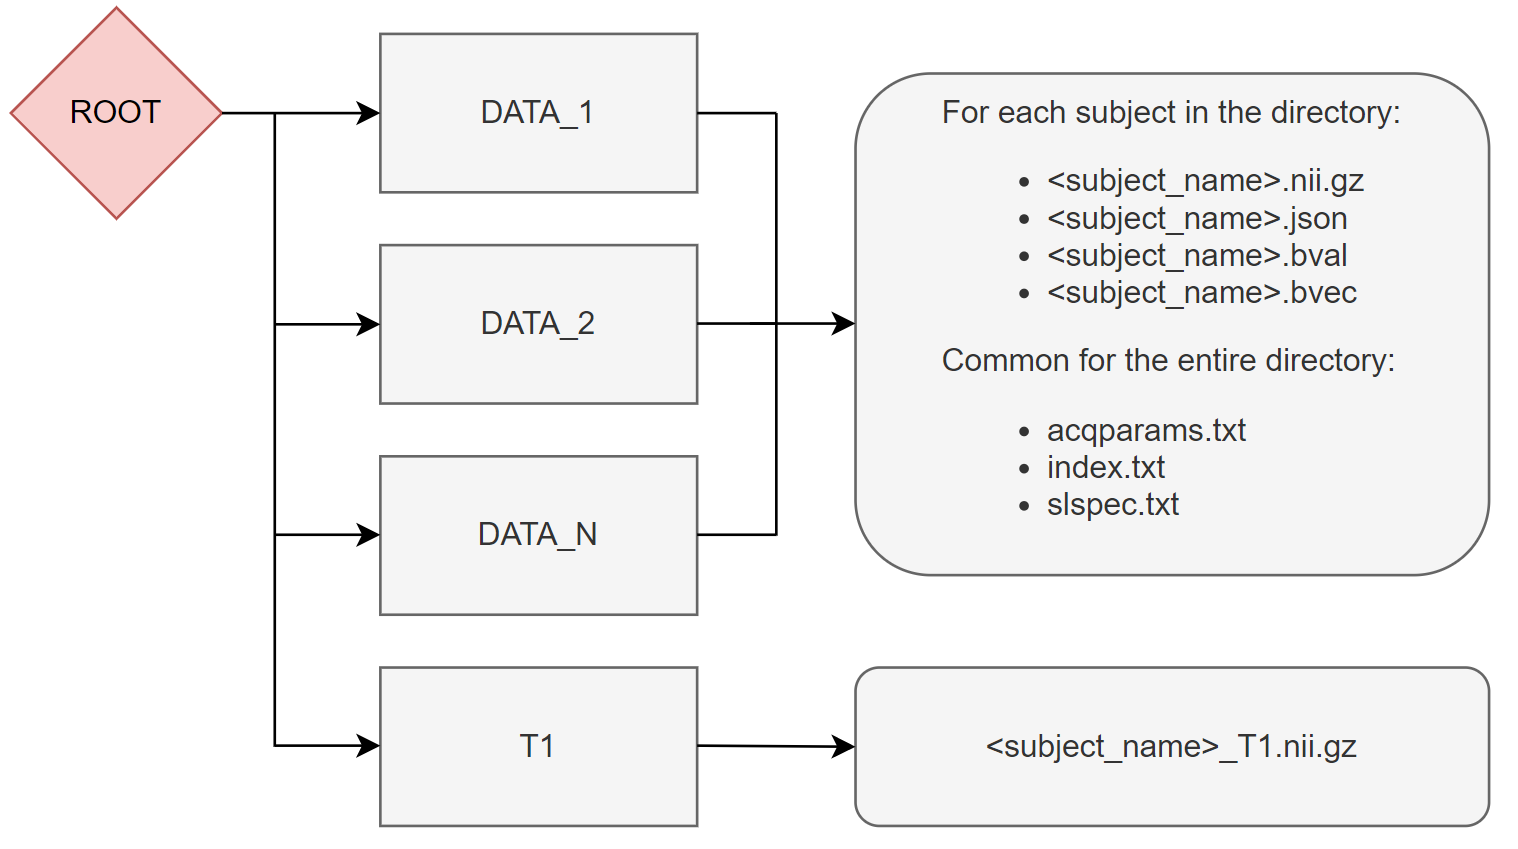
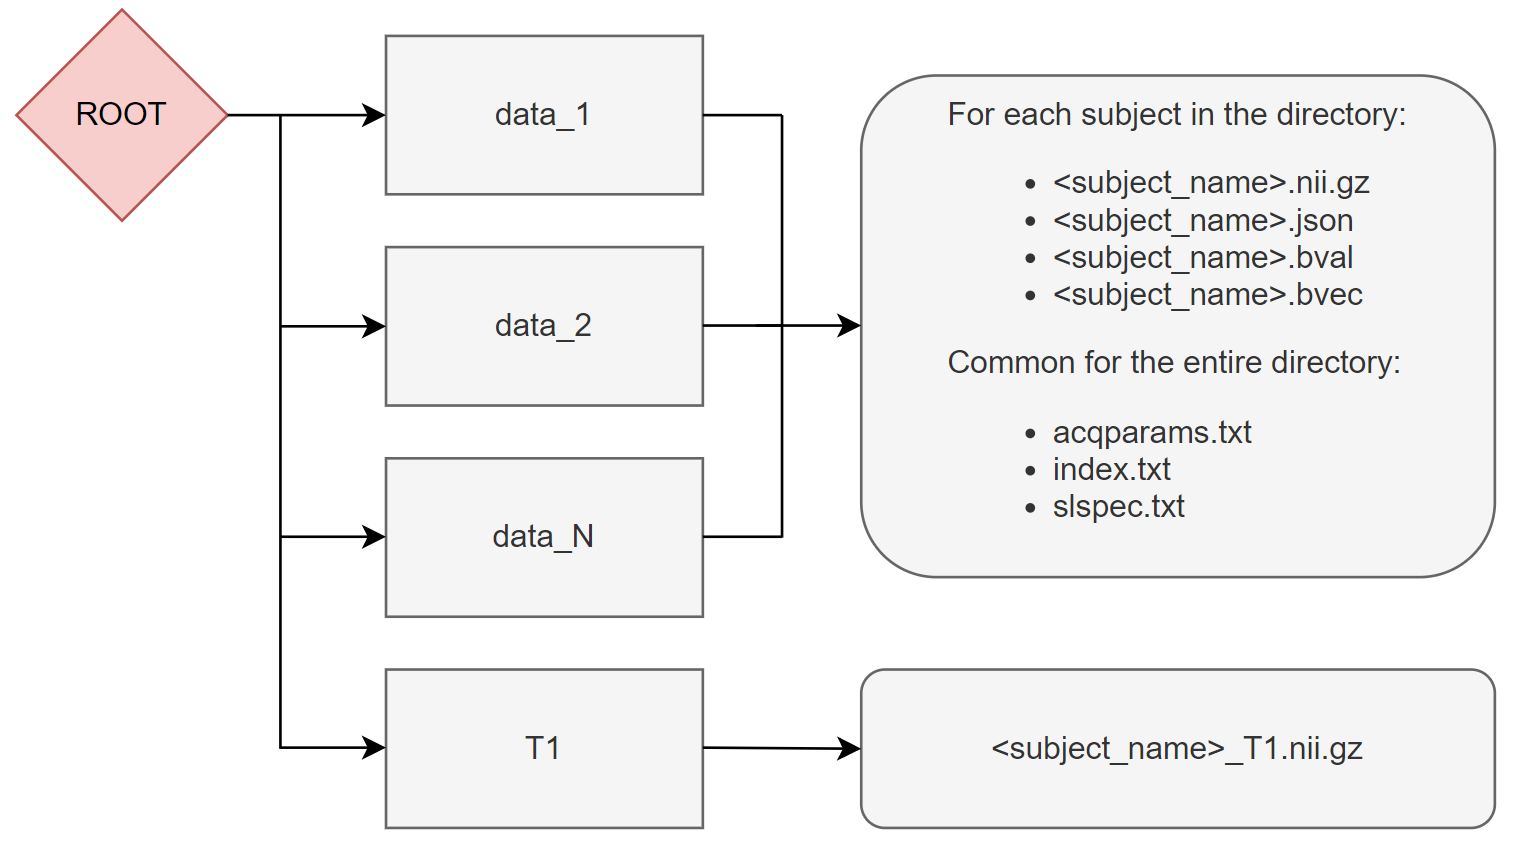
reverse encoding doc

diff --git a/docs/elikopy_usage.rst b/docs/elikopy_usage.rst
@@ -44,10 +44,18 @@ These files can be generated as explained in the following links:
 
 		study.patient_list(reverseEncoding=True)
 
-	In this case a reverseEncoding directory containing the data with reversed phase encoding direction can be added in the DATA_N folders and the merging operation will be managed automatically.
+	In this case a reverse_encoding directory containing the data with reversed phase encoding direction can be added in the data_N folders and the merging operations will be managed automatically.
+
+	.. image:: pictures/root_reverse.png
+		:width: 800
+		:alt: Initialisation of the root directory, reverse phase encoding
 
 .. note::
 	The BIDS format is also supported in input using the bids_path argument of patient_list
+
+	.. code-block:: python
+
+		study.patient_list(bids_path="path_to_BIDS")
 
 Preprocessing
 ^^^^^^^^^^^^^
